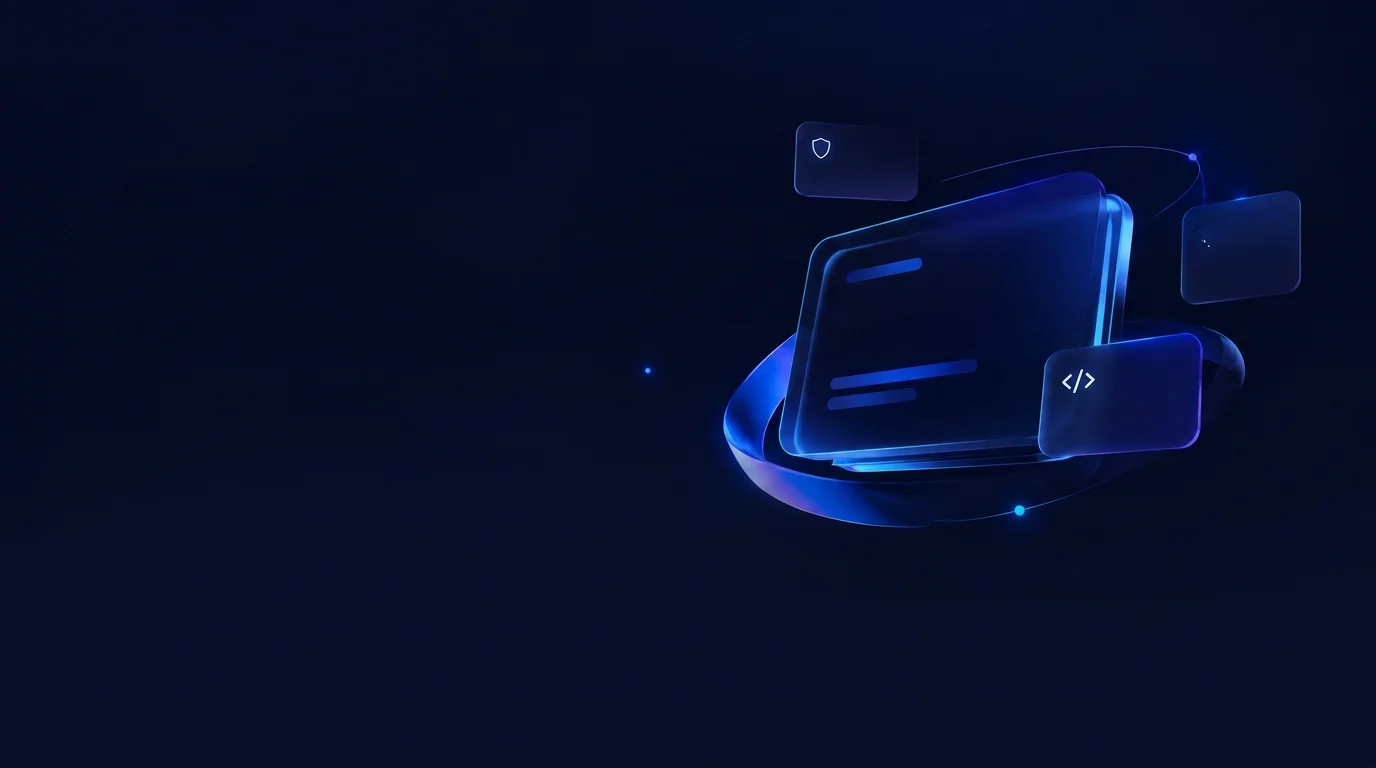
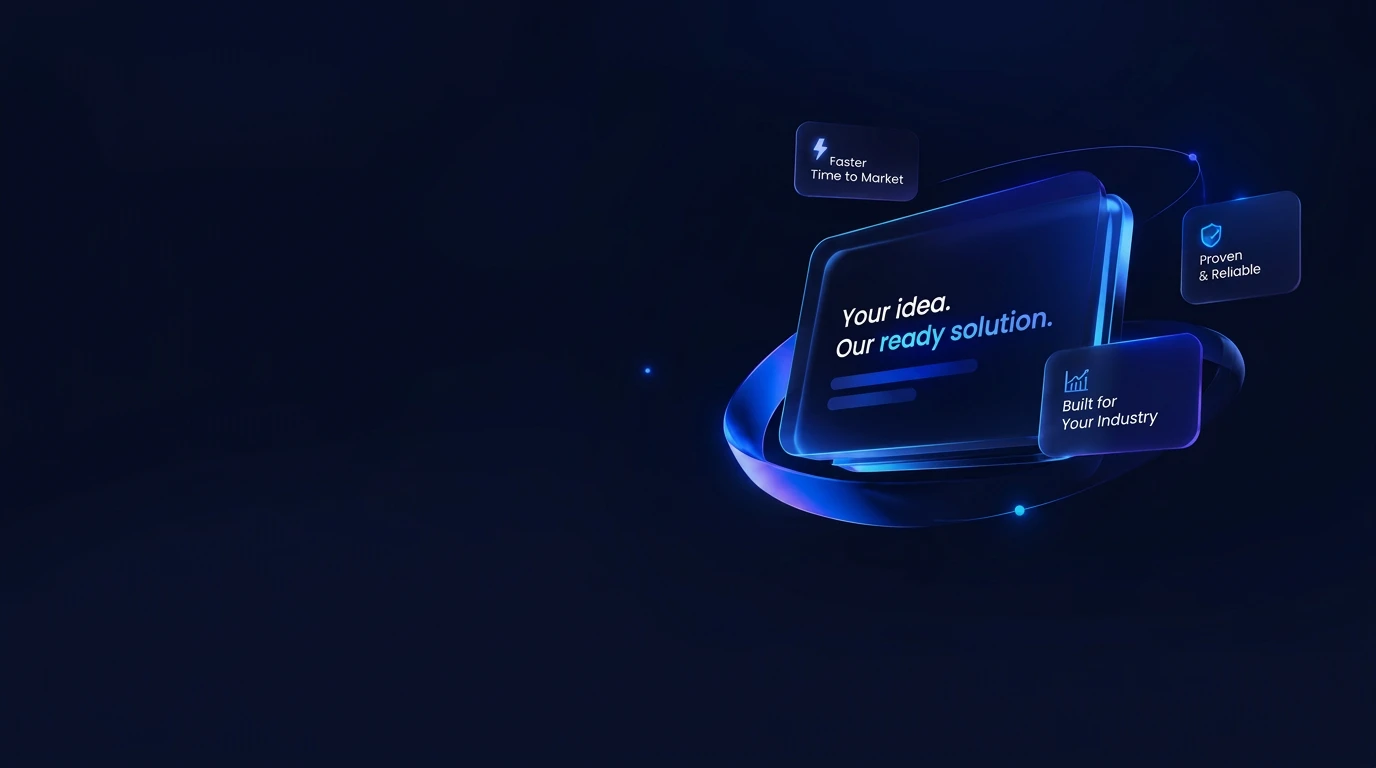
Restore lettering inside the hero right-side illustration

diff --git a/revamp/src/app/(home)/components/hero.tsx b/revamp/src/app/(home)/components/hero.tsx
@@ -117,7 +117,7 @@ export function Hero() {
         "after:bg-[linear-gradient(90deg,var(--color-slate-950)_0%,color-mix(in_srgb,var(--color-slate-950)_92%,transparent)_36%,transparent_72%),linear-gradient(180deg,transparent_30%,color-mix(in_srgb,var(--color-slate-950)_30%,transparent)_55%,var(--color-slate-950)_85%)]",
       )}
     >
-      {/* Background-only artwork: no baked-in headings, buttons or labels.
+      {/* Artwork retains its own panel lettering, but no left-side website copy.
           The right-side panels stay visible on desktop, softer on phones. */}
       <div
         aria-hidden="true"

diff --git a/revamp/design.md b/revamp/design.md
@@ -242,8 +242,10 @@ motion. No visible playback controls are rendered. About cards use 32px corners.
 ## Hero background update
 
 The hardware photograph is replaced by `public/hero-software-bg.webp`: blue-lit
-layered software panels on the right, empty navy on the left, no baked-in copy,
-buttons or nav. The art follows the user's supplied visual reference. Tailwind
+layered software panels on the right, empty navy on the left, no baked-in left-side website copy,
+buttons or nav. The right illustration retains its original panel text: “Your
+idea. Our ready solution.”, “Faster Time to Market”, “Proven & Reliable”, and
+“Built for Your Industry”. The art follows the user's supplied visual reference. Tailwind
 directional scrims protect the headline and fade the lower artwork before the
 chips; phones use a quieter 30% image layer. Hero copy, category behaviour and
-layout remain unchanged. The WebP is 1376 × 768 and about 19 KB.
+layout remain unchanged. The WebP is 1376 × 768 and about 25 KB.
